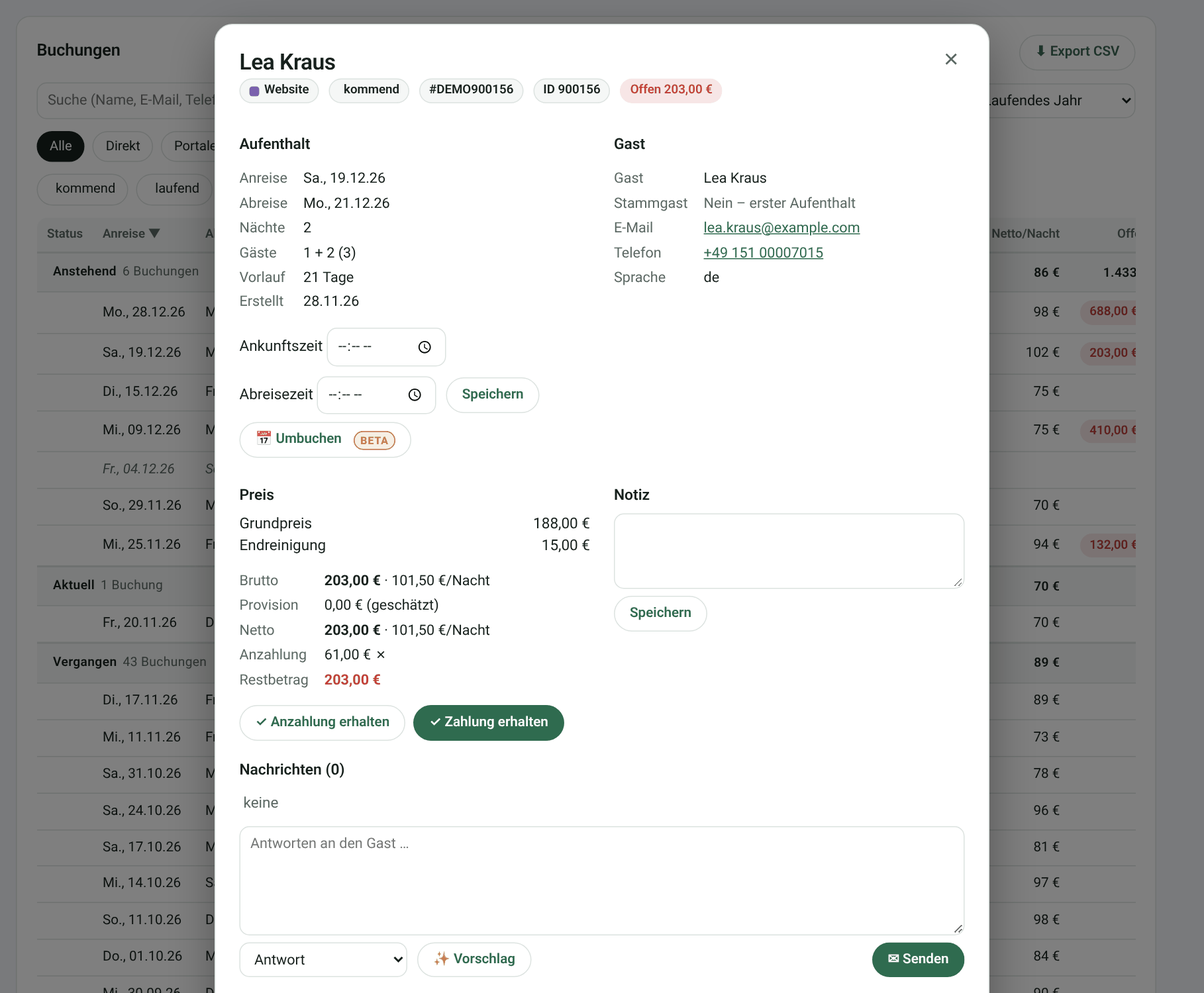
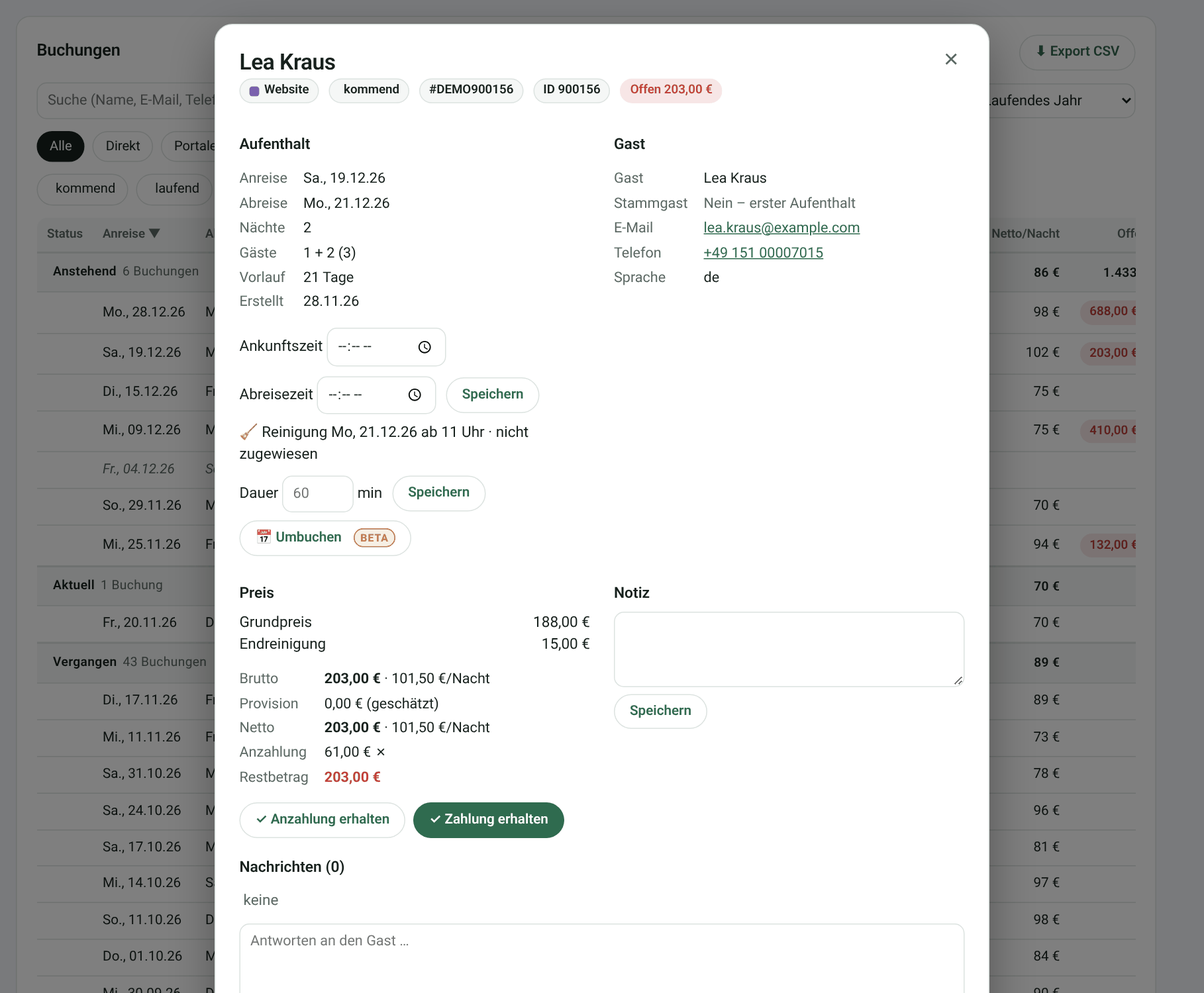
Reinigungszeit je Reinigung buchbar (Standard 60 min)
- Aktion „dauer“ im Reinigungsboard (Minuten, leer = Standard), Feld „Dauer“
  im Board und in den Buchungsdetails
- Reinigungskosten = gebuchte Dauer × Stundenlohn der Person
- Statistik „Reinigung“: Ø Zeit je Person, Zeit je Reinigung, gebuchte Zeiten
- Tests, Changelog, Screenshots

Claude-Session: https://claude.ai/code/session_01FCC4YVqVzBtiPpJSnp39on

diff --git a/custom_components/smoobu/www/smoobu-cards.js b/custom_components/smoobu/www/smoobu-cards.js
@@ -2822,6 +2822,9 @@ class SmoobuBookingDialog extends HTMLElement {
         // Antwortstatus + Assistent sind optional: schlägt einer fehl, bleibt der Dialog ohne diese Teile nutzbar
         this.store.ws("smoobu/message_status", { ...this.target, reservation_ids: [this.rid] }, { cache: false }).catch(() => null),
         this.store.ws("smoobu/assistant/state", this.target, { cache: false }).catch(() => null)]);
+      // v1.19.0: Reinigung dieser Buchung (Dauer buchbar) – nur mit Recht „Reinigung“, sonst einfach ohne
+      this.clean = await this.store.ws("smoobu/cleaning/get", this.target, { cache: false })
+        .then((r) => ({ ...r, item: r.reinigungen.find((x) => x.buchung_id === this.rid) || null })).catch(() => null);
       this.apt = info.wohnungen.find((w) => w.apartment_id === (d.buchung?.wohnung_id ?? this.target.apartment_id)) || info.wohnungen[0];
       this.data = d;
       // Status aus dem frischen Verlauf ableiten (erledigt_id kommt aus message_status)
@@ -2847,6 +2850,17 @@ class SmoobuBookingDialog extends HTMLElement {
       <div class="top"><h2>${d?.buchung ? (d.buchung.blockiert ? `🔒 ${t("Sperrzeit")}` : esc(d.buchung.gast)) + (d.buchung.hund ? " 🐕" : "") + code : t("Details")}</h2>
       <button class="x" data-act="close" aria-label="close">×</button></div>${inner}</div></div>`;
     this.bind();
+  }
+  // v1.19.0: Reinigung nach diesem Aufenthalt – Person, Status und gebuchte Dauer (Standard laut Einstellungen)
+  cleanHtml() {
+    const c = this.clean, x = c?.item;
+    if (!x) return "";
+    const mine = !x.zugewiesen || x.zugewiesen === c.ich;
+    const edit = c.darf_zuweisen || (c.darf_uebernehmen && mine);
+    return `<div class="row" style="margin-top:8px;align-items:center;flex-wrap:wrap">
+      <span>🧹 ${t("Reinigung")} ${fdowLong(x.datum)} ${t("ab")} ${uhr(x.check_out)} · ${x.zugewiesen ? esc(x.zugewiesen_name || "?") : t("nicht zugewiesen")}${x.status === "erledigt" ? ` · ✓ ${t("erledigt")}` : ""}</span>
+      ${edit ? `<label>${t("Dauer")} <input type="number" data-k="cmin" min="1" max="600" step="5" value="${x.minuten ?? ""}" placeholder="${c.standard_minuten || 60}" style="width:72px"> min</label>
+        <button class="btn flat" data-act="cmin">${t("Speichern")}</button>` : `<span class="sub">${num(x.minuten || c.standard_minuten || 60)} min</span>`}</div>`;
   }
   content(d) {
     const b = d.buchung || {};
@@ -2880,7 +2894,7 @@ class SmoobuBookingDialog extends HTMLElement {
         ${!b.blockiert ? `<div class="row" style="margin-top:8px">
           <label>${t("Ankunftszeit")} <input type="time" data-k="ci" value="${esc((b.check_in || "").slice(0, 5))}"></label>
           <label>${t("Abreisezeit")} <input type="time" data-k="co" value="${esc((b.check_out || "").slice(0, 5))}"></label>
-          <button class="btn flat" data-act="times">${t("Speichern")}</button></div>` : ""}${this.moveHtml(b)}</div>
+          <button class="btn flat" data-act="times">${t("Speichern")}</button></div>` : ""}${this.cleanHtml()}${this.moveHtml(b)}</div>
         ${!b.blockiert ? `<div><h3>${t("Gast")}</h3>${kv([
           ["Gast", esc(b.gast)],
           // v1.18.0: frühere Aufenthalte; Klick öffnet die letzte Buchung (ggf. andere Wohnung des Kontos)
@@ -3069,6 +3083,14 @@ class SmoobuBookingDialog extends HTMLElement {
     if (a === "close") return this.remove();
     if (a === "ai") return this.aiSuggest();
     if (["move", "mvcancel", "mvcheck", "mvdo"].includes(a)) return this.moveAct(a); // v1.18.0: Umbuchen
+    if (a === "cmin") { // v1.19.0: Reinigungszeit dieser Buchung (nur in HA, nicht in Smoobu)
+      const x = this.clean?.item, val = this.shadowRoot.querySelector('[data-k="cmin"]')?.value;
+      try {
+        await this.store.ws("smoobu/cleaning/set", { entry_id: x.entry_id, key: x.key, aktion: "dauer", minuten: val === "" ? null : Number(val) }, { cache: false });
+        toast(t("Reinigungszeit gespeichert")); this.load();
+      } catch (e) { toast(`${t("Fehler")}: ${e?.message || e}`); }
+      return;
+    }
     const v = (k) => this.shadowRoot.querySelector(`[data-k="${k}"]`)?.value;
     const id = this.rid;
     // v1.17.0: Zahlungsstatus – markPayment fragt nach, schreibt und meldet selbst
@@ -4357,7 +4379,8 @@ ${t("Netto je € Basispreis")}: ${num(k.netto_je_euro, 2)}`)}">
       const tiles = tilesRow([
         [t("Reinigungen"), num(m.anzahl), m.seit ? `${t("erfasst seit")} ${fdate(m.seit)}` : t("noch keine erfasst"),
           t("Abgehakte Reinigungen im Reinigungsboard mit Abreise im Zeitraum")],
-        [t("Kosten"), money(m.kosten || 0, d.apt.currency), `${num(m.minuten || 60)} min ${t("je Reinigung")}`, t("Reinigungszeit × Stundenlohn der Person (Einstellungen → Kosten & Preise)")],
+        [t("Kosten"), money(m.kosten || 0, d.apt.currency), `${num((m.minuten_summe || 0) / 60, 1)} h · ${num(m.minuten_gebucht || 0)} ${t("Zeiten gebucht, Rest")} ${num(m.minuten || 60)} min`,
+          t("Gebuchte Reinigungszeit (sonst Standard) × Stundenlohn der Person (Einstellungen → Kosten & Preise)")],
         [t("Gästewechsel"), num(m.wechsel), m.anzahl ? pct((m.wechsel / m.anzahl) * 100, 0) : "", t("Abreise und Anreise am selben Tag – enges Zeitfenster")],
         [t("Mit Hund"), num(m.hund), m.anzahl ? pct((m.hund / m.anzahl) * 100, 0) : "", t("Abreisende Gäste mit Hund – meist mehr Aufwand")],
         [t("Nicht abgehakt"), num(m.nicht_abgehakt), m.nicht_abgehakt_ohne_zuweisung ? `${num(m.nicht_abgehakt_ohne_zuweisung)} ${t("ohne Zuweisung")}` : "",
@@ -4366,12 +4389,13 @@ ${t("Netto je € Basispreis")}: ${num(k.netto_je_euro, 2)}`)}">
       if (!m.anzahl) return panel(`🧹 ${t("Reinigung")}`, t("Wer hat wann welche Wohnung gereinigt"),
         `${tiles}<div class="empty">${t("Noch keine abgehakten Reinigungen im Zeitraum – die Auswertung beginnt mit dem Reinigungsboard (Seite Reinigung).")}</div>`);
       const people = m.personen.map((p) => p.person);
-      const per = `<div class="scroll"><table><thead><tr><th>${t("Person")}</th><th class="n">${t("Reinigungen")}</th><th class="n">${t("Anteil")}</th><th class="n">${t("Kosten")}</th>
+      const per = `<div class="scroll"><table><thead><tr><th>${t("Person")}</th><th class="n">${t("Reinigungen")}</th><th class="n">${t("Anteil")}</th><th class="n">${t("Kosten")}</th><th class="n" title="${t("Ø Reinigungszeit")}">${t("Zeit Ø")}</th>
           <th class="n">${t("Gästewechsel")}</th><th class="n">🐕</th><th class="n" title="${t("Personen je Reinigung (abgereiste Gäste)")}">${t("Gäste Ø")}</th>
           <th class="n" title="${t("Summe der Nächte der abgereisten Gäste")}">${t("Nächte")}</th>
           <th class="n" title="${t("Median: Zeit vom Check-out bis zum Abhaken")}">${t("Abgehakt nach")}</th><th>${t("Zuletzt")}</th></tr></thead><tbody>
         ${m.personen.map((p) => `<tr><td><b>${esc(p.person)}</b></td><td class="n">${num(p.anzahl)}</td><td class="n">${pct(p.anteil_prozent, 0)}</td>
           <td class="n" title="${p.stundenlohn ? `${num(p.stundenlohn, 2)} €/h` : ""}">${money(p.kosten || 0, d.apt.currency)}</td>
+          <td class="n">${p.minuten_je_reinigung ? `${num(p.minuten_je_reinigung)} min` : "–"}</td>
           <td class="n">${num(p.wechsel)}</td><td class="n">${num(p.hund)}</td><td class="n">${p.personen_je_reinigung === null ? "–" : num(p.personen_je_reinigung, 1)}</td>
           <td class="n">${num(p.naechte)}</td><td class="n">${dur(p.verzug_median_min)}</td><td>${fdate(p.letzte)}</td></tr>`).join("")}</tbody></table></div>`;
       const cross = (rows, key, label) => `<div class="scroll"><table><thead><tr><th>${t(label)}</th>${people.map((p) => `<th class="n">${esc(p)}</th>`).join("")}<th class="n">Σ</th></tr></thead><tbody>
@@ -4379,11 +4403,13 @@ ${t("Netto je € Basispreis")}: ${num(k.netto_je_euro, 2)}`)}">
           ${people.map((p) => `<td class="n">${r.je_person[p] ? num(r.je_person[p]) : "–"}</td>`).join("")}<td class="n"><b>${num(r.summe)}</b></td></tr>`).join("")}</tbody></table></div>`;
       const shown = card._state.cleanAll ? m.liste : m.liste.slice(0, 15);
       const list = `<div class="scroll"><table><thead><tr><th>${t("Abreise")}</th>${d.info.wohnungen.length > 1 ? `<th>${t("Wohnung")}</th>` : ""}<th>${t("Person")}</th>
-          <th>${t("Abgehakt")}</th><th class="n">${t("Personen")}</th><th class="n">${t("Nächte")}</th><th></th></tr></thead><tbody>
+          <th>${t("Abgehakt")}</th><th class="n">${t("Zeit")}</th><th class="n">${t("Personen")}</th><th class="n">${t("Nächte")}</th><th></th></tr></thead><tbody>
         ${shown.map((x) => `<tr><td>${fdowLong(x.datum)} ${uhr(x.check_out)}</td>${d.info.wohnungen.length > 1 ? `<td>${codeTag(x.kuerzel)}</td>` : ""}
           <td>${esc(x.person)}${x.abgehakt_von && x.abgehakt_von !== x.person ? ` <span class="sub">(${t("abgehakt von")} ${esc(x.abgehakt_von)})</span>` : ""}</td>
-          <td>${x.erledigt_um ? `${fdate(x.erledigt_um)} ${String(x.erledigt_um).slice(11, 16)}` : "–"}</td><td class="n">${x.personen ?? "–"}</td><td class="n">${x.naechte ?? "–"}</td>
+          <td>${x.erledigt_um ? `${fdate(x.erledigt_um)} ${String(x.erledigt_um).slice(11, 16)}` : "–"}</td>
+          <td class="n">${num(x.minuten || 0)} min${x.minuten_gebucht ? "" : " *"}</td><td class="n">${x.personen ?? "–"}</td><td class="n">${x.naechte ?? "–"}</td>
           <td>${x.wechsel ? `<span class="badge warn">🔄 ${t("Wechsel")}</span>` : ""}${x.hund ? " 🐕" : ""}</td></tr>`).join("")}</tbody></table></div>
+        <div class="sub">* ${t("Standardzeit (keine Zeit gebucht)")}</div>
         ${m.liste.length > 15 ? `<button class="lnk" data-k="cleanall">${card._state.cleanAll ? t("Weniger anzeigen") : `${t("Alle")} ${m.liste.length} ${t("anzeigen")}`}</button>` : ""}`;
       return panel(`🧹 ${t("Reinigung")}${neuBadge("neu-reinigung-statistik")}`, t("Wer hat wann welche Wohnung gereinigt"),
         `${tiles}<div class="kl" style="margin-top:12px">${t("Je Person")}</div>${per}
@@ -6619,6 +6645,8 @@ class SmoobuCleaningCard extends SmoobuCard {
     .cl .s { font-size: .86rem; color: var(--sm-muted); margin-top: 2px; }
     .cl .s.wx { color: var(--sm-warn); font-weight: 600; }
     .cl .a { display: flex; gap: 8px; align-items: center; flex-wrap: wrap; justify-content: flex-end; }
+    .cl .dur { display: inline-flex; align-items: center; gap: 4px; } .cl .dur input { width: 68px; font: inherit; font-size: .85rem; padding: 4px 6px;
+      border-radius: 8px; border: 1px solid var(--sm-line); background: var(--sm-surf); color: var(--sm-ink); }
     .cl select { font: inherit; font-size: .85rem; padding: 4px 8px; border-radius: 999px; border: 1px solid var(--sm-line);
       background: var(--sm-surf); color: var(--sm-ink); max-width: 170px; }
     @media (max-width: 620px) { .cl { grid-template-columns: 4px minmax(0, 1fr); } .cl .a { grid-column: 2; justify-content: flex-start; } }
@@ -6666,6 +6694,9 @@ class SmoobuCleaningCard extends SmoobuCard {
       if (!done && r.darf_uebernehmen && !x.zugewiesen) acts.push(`<button class="btn flat" data-cl="uebernehmen" data-key="${esc(x.key)}" data-entry="${esc(x.entry_id)}">${t("Übernehmen")}</button>`);
       if (!done && x.zugewiesen === me) acts.push(`<button class="lnk" data-cl="abgeben" data-key="${esc(x.key)}" data-entry="${esc(x.entry_id)}">${t("Abgeben")}</button>`);
       const mayDone = r.darf_zuweisen || !x.zugewiesen || x.zugewiesen === me;
+      // v1.19.0: tatsächliche Reinigungszeit je Reinigung buchen (leer = Standard)
+      if (mayDone) acts.push(`<label class="dur" title="${t("Reinigungszeit (leer = Standard)")}"><input type="number" data-cmin="${esc(x.key)}" data-entry="${esc(x.entry_id)}"
+        min="1" max="600" step="5" value="${x.minuten ?? ""}" placeholder="${r.standard_minuten || 60}"><span class="unit">min</span></label>`);
       if (mayDone) acts.push(done
         ? `<button class="lnk" data-cl="offen" data-key="${esc(x.key)}" data-entry="${esc(x.entry_id)}">↺ ${t("Wieder offen")}</button>`
         : `<button class="btn" data-cl="erledigt" data-key="${esc(x.key)}" data-entry="${esc(x.entry_id)}">✓ ${t("Erledigt")}</button>`);
@@ -6673,7 +6704,7 @@ class SmoobuCleaningCard extends SmoobuCard {
           <div class="t">${t("ab")} ${uhr(x.check_out)}${x.kuerzel && this.multi ? codeTag(x.kuerzel) : ""}
             <span class="sub">${t("Abreise")}: ${guest(x.vorname, x.personen, x.hund, x.naechte)}</span></div>
           ${next}
-          ${done ? `<div class="s">✓ ${t("erledigt von")} ${esc(x.erledigt_von || "?")}${x.erledigt_um ? `, ${fdate(x.erledigt_um)} ${String(x.erledigt_um).slice(11, 16)}` : ""}</div>` : ""}
+          ${done ? `<div class="s">✓ ${t("erledigt von")} ${esc(x.erledigt_von || "?")}${x.erledigt_um ? `, ${fdate(x.erledigt_um)} ${String(x.erledigt_um).slice(11, 16)}` : ""} · ${num(x.minuten || r.standard_minuten || 60)} min${x.minuten ? "" : ` (${t("Standard")})`}</div>` : ""}
           ${late && !done ? `<div class="s" style="color:var(--sm-bad)">${t("Noch nicht abgehakt")}</div>` : ""}
         </div><div class="a">${acts.join("")}</div></div>`;
     };
@@ -6703,12 +6734,16 @@ class SmoobuCleaningCard extends SmoobuCard {
       el.disabled = true;
       try {
         await this.store.ws("smoobu/cleaning/set", { entry_id: el.dataset.entry, key: el.dataset.key || el.dataset.assign, aktion, ...extra }, { cache: false });
-        toast(aktion === "erledigt" ? `✓ ${t("Erledigt")}` : aktion === "zuweisen" ? t("Zugewiesen") : t("Gespeichert"));
+        toast(aktion === "erledigt" ? `✓ ${t("Erledigt")}` : aktion === "zuweisen" ? t("Zugewiesen") : aktion === "dauer" ? t("Reinigungszeit gespeichert") : t("Gespeichert"));
         this._reload();
       } catch (e) { el.disabled = false; toast(`${t("Fehler")}: ${t(e?.message || String(e))}`); }
     };
     root.querySelectorAll("[data-cl]").forEach((b) => b.addEventListener("click", () => send(b, b.dataset.cl)));
     root.querySelectorAll("[data-assign]").forEach((sel) => sel.addEventListener("change", () => send(sel, "zuweisen", { benutzer_id: sel.value || null })));
+    root.querySelectorAll("[data-cmin]").forEach((inp) => inp.addEventListener("change", () => {
+      inp.dataset.key = inp.dataset.cmin;
+      send(inp, "dauer", { minuten: inp.value === "" ? null : Number(inp.value) });
+    }));
   }
   getCardSize() { return 8; }
 }

diff --git a/custom_components/smoobu/reinigung.py b/custom_components/smoobu/reinigung.py
@@ -14,6 +14,10 @@ Zuweisung (Entscheidungen Betreiber 20.11.2026):
   Standard 18:00). Handy je HA-Benutzer in den Einstellungen (Option `cleaning_phones`).
   Die Pushes halten die Ruhezeit ein (werden gesammelt) – wie die übrigen Smoobu-Pushes.
 
+Dauer (v1.19.0, Wunsch Betreiber 20.11.2026): je Reinigung buchbar (Aktion „dauer“, Minuten), ohne
+Eintrag gilt die Standard-Reinigungszeit (Option `cost_cleaning_minutes`, Standard 60). Kosten der
+Reinigung = Dauer × Stundenlohn der Person (Deckungsbeitrag der Buchung und Statistik).
+
 Schlüssel einer Reinigung: `<buchungs_id>:<abreise>` – verschiebt sich die Abreise, entsteht eine
 neue Reinigung (alte Zuweisung passt dann nicht mehr sicher zum Tag). Gespeichert im Store
 `smoobu_reinigung_<entry_id>`. Offene Einträge fallen nach 60 Tagen weg, erledigte bleiben 3 Jahre
@@ -44,7 +48,8 @@ DAYS_BACK = 7      # erledigte/vergessene der letzten Woche bleiben sichtbar
 DAYS_AHEAD = 60
 KEEP_DAYS = 60          # offene/zugewiesene Einträge
 KEEP_DONE_DAYS = 3 * 366  # erledigte (Statistik)
-ACTIONS = ("uebernehmen", "abgeben", "zuweisen", "erledigt", "offen")
+ACTIONS = ("uebernehmen", "abgeben", "zuweisen", "erledigt", "offen", "dauer")
+MAX_MINUTES = 600
 
 
 class CleaningError(Exception):
@@ -153,6 +158,7 @@ class CleaningBoard:
         for item in build(records, opts, dt_util.now().date()):
             s = state.get(item["key"], {})
             item = {**item, "zugewiesen": s.get("zugewiesen"), "zugewiesen_name": names.get(s.get("zugewiesen")),
+                    "minuten": s.get("minuten"),
                     "status": s.get("status", "offen"), "erledigt_von": s.get("erledigt_von"), "erledigt_um": s.get("erledigt_um")}
             if "belegung_sehen" not in rights:  # Recht „Reinigung“ ohne Belegung: auch keine Vornamen
                 item["vorname"] = None
@@ -187,7 +193,8 @@ class CleaningBoard:
                 if u.is_active and not u.system_generated and rechte.allowed(u, opts, "reinigung")]
 
     # --- Ändern ----------------------------------------------------------
-    async def async_set(self, key: str, action: str, user: Any, target: str | None = None) -> dict[str, Any]:
+    async def async_set(self, key: str, action: str, user: Any, target: str | None = None,
+                        minutes: int | None = None) -> dict[str, Any]:
         """Aktion ausführen (Rechte siehe Modul-Doku). Rückgabe: neuer Zustand der Reinigung."""
         if action not in ACTIONS:
             raise CleaningError("invalid_action")
@@ -221,6 +228,15 @@ class CleaningBoard:
                 if tu is None or not tu.is_active or not rechte.allowed(tu, opts, "reinigung"):
                     raise CleaningError("invalid_user")
             cur["zugewiesen"] = target or None
+        elif action == "dauer":  # tatsächliche Reinigungszeit buchen (leer = Standard)
+            if not can_assign and before not in (None, me):
+                raise CleaningError("not_yours")
+            if minutes is None:
+                cur.pop("minuten", None)
+            elif not 1 <= int(minutes) <= MAX_MINUTES:
+                raise CleaningError("invalid_minutes")
+            else:
+                cur["minuten"] = int(minutes)
         else:  # erledigt / offen
             if not can_assign and before not in (None, me):
                 raise CleaningError("not_yours")
@@ -334,7 +350,8 @@ def stats(state: dict[str, dict[str, Any]], pending: list[dict[str, Any]], start
                      "person": names.get(who) or v.get("gereinigt_name") or v.get("erledigt_von") or "?",
                      "erledigt_um": v.get("erledigt_um"), "abgehakt_von": v.get("erledigt_von"),
                      "verzug_min": _delay_minutes(snap, v.get("erledigt_um")),
-                     "kosten": round((wage(who) if wage else 0.0) * minutes / 60, 2),
+                     "minuten": v.get("minuten") or minutes, "minuten_gebucht": v.get("minuten") is not None,
+                     "kosten": round((wage(who) if wage else 0.0) * (v.get("minuten") or minutes) / 60, 2),
                      "kuerzel": codes.get(snap["wohnung_id"], "")})
     done.sort(key=lambda x: (x["datum"], x["key"]), reverse=True)
     people: dict[str, dict[str, Any]] = {}
@@ -343,8 +360,9 @@ def stats(state: dict[str, dict[str, Any]], pending: list[dict[str, Any]], start
     for x in done:
         p = people.setdefault(x["person"], {"person": x["person"], "anzahl": 0, "wechsel": 0, "hund": 0, "personen": 0,
                                             "naechte": 0, "_delay": [], "letzte": None, "erste": None, "kosten": 0.0,
-                                            "stundenlohn": wage(x["person_id"]) if wage else None})
+                                            "stundenlohn": wage(x["person_id"]) if wage else None, "minuten": 0})
         p["anzahl"] += 1
+        p["minuten"] += x["minuten"]
         p["kosten"] = round(p["kosten"] + x["kosten"], 2)
         p["wechsel"] += int(bool(x["wechsel"]))
         p["hund"] += int(bool(x["hund"]))
@@ -366,6 +384,7 @@ def stats(state: dict[str, dict[str, Any]], pending: list[dict[str, Any]], start
         p["anteil_prozent"] = round(p["anzahl"] / total * 100) if total else 0
         p["verzug_median_min"] = delays[len(delays) // 2] if delays else None
         p["personen_je_reinigung"] = round(p["personen"] / p["anzahl"], 1) if p["anzahl"] else None
+        p["minuten_je_reinigung"] = round(p["minuten"] / p["anzahl"]) if p["anzahl"] else None
         persons.append(p)
     # Vergangene Reinigungen im Zeitraum, die (noch) nicht abgehakt sind – erst ab dem ersten Eintrag im
     # Reinigungsboard (vorher gab es nichts abzuhaken; sonst stünden alle Abreisen vor dem Update hier)
@@ -375,7 +394,9 @@ def stats(state: dict[str, dict[str, Any]], pending: list[dict[str, Any]], start
     return {
         "anzahl": total,
         "kosten": round(sum(x["kosten"] for x in done), 2),
-        "minuten": minutes,
+        "minuten": minutes,  # Standard-Reinigungszeit
+        "minuten_summe": sum(x["minuten"] for x in done),
+        "minuten_gebucht": sum(1 for x in done if x["minuten_gebucht"]),
         "wechsel": sum(1 for x in done if x["wechsel"]),
         "hund": sum(1 for x in done if x["hund"]),
         "nicht_abgehakt": len(missed),
@@ -398,9 +419,11 @@ def merge_stats(parts: list[dict[str, Any]]) -> dict[str, Any]:
         for k in ("anzahl", "wechsel", "hund", "nicht_abgehakt", "nicht_abgehakt_ohne_zuweisung"):
             out[k] += p[k]
         out["kosten"] = round(out["kosten"] + p.get("kosten", 0.0), 2)
+        out["minuten_summe"] = out.get("minuten_summe", 0) + p.get("minuten_summe", 0)
+        out["minuten_gebucht"] = out.get("minuten_gebucht", 0) + p.get("minuten_gebucht", 0)
         for x in p["personen"]:
-            q = people.setdefault(x["person"], {**x, "anzahl": 0, "wechsel": 0, "hund": 0, "personen": 0, "naechte": 0, "kosten": 0.0})
-            for k in ("anzahl", "wechsel", "hund", "personen", "naechte", "kosten"):
+            q = people.setdefault(x["person"], {**x, "anzahl": 0, "wechsel": 0, "hund": 0, "personen": 0, "naechte": 0, "kosten": 0.0, "minuten": 0})
+            for k in ("anzahl", "wechsel", "hund", "personen", "naechte", "kosten", "minuten"):
                 q[k] += x[k]
             q["letzte"] = max(q.get("letzte") or "", x.get("letzte") or "") or None
         for m in p["monate"]:
@@ -415,6 +438,7 @@ def merge_stats(parts: list[dict[str, Any]]) -> dict[str, Any]:
     for q in people.values():
         q["anteil_prozent"] = round(q["anzahl"] / total * 100) if total else 0
         q["personen_je_reinigung"] = round(q["personen"] / q["anzahl"], 1) if q["anzahl"] else None
+        q["minuten_je_reinigung"] = round(q["minuten"] / q["anzahl"]) if q["anzahl"] else None
     out["personen"] = sorted(people.values(), key=lambda q: -q["anzahl"])
     out["monate"] = [{"monat": m, "je_person": v, "summe": sum(v.values())} for m, v in sorted(months.items())]
     out["liste"] = sorted(out["liste"], key=lambda x: (x["datum"], x["key"]), reverse=True)[:100]

diff --git a/custom_components/smoobu/websocket_api.py b/custom_components/smoobu/websocket_api.py
@@ -1131,13 +1131,17 @@ async def ws_cleaning_get(hass: HomeAssistant, connection: websocket_api.ActiveC
     items.sort(key=lambda x: (x["datum"], x["check_out"] or "", x["key"]))
     connection.send_result(msg["id"], {
         "reinigungen": items, "benutzer": list(users.values()), "ich": connection.user.id if connection.user else None,
-        "darf_zuweisen": can_assign, "darf_uebernehmen": can_take, "heute": dt_util.now().date().isoformat()})
+        "darf_zuweisen": can_assign, "darf_uebernehmen": can_take, "heute": dt_util.now().date().isoformat(),
+        # v1.19.0: Standard-Reinigungszeit (Platzhalter für die gebuchte Dauer)
+        "standard_minuten": int(float(next(iter(_apartments_by_coord(pairs))).config_entry.options.get("cost_cleaning_minutes", 60)))})
 
 
 @websocket_api.websocket_command(
     {vol.Required("type"): "smoobu/cleaning/set", vol.Required("entry_id"): str,
      vol.Required("key"): vol.All(str, vol.Length(max=60)), vol.Required("aktion"): vol.In(CLEANING_ACTIONS),
-     vol.Optional("benutzer_id"): vol.Any(None, vol.All(str, vol.Length(max=64)))}
+     vol.Optional("benutzer_id"): vol.Any(None, vol.All(str, vol.Length(max=64))),
+     # v1.19.0: Aktion „dauer“ – gebuchte Reinigungszeit in Minuten (None = Standard)
+     vol.Optional("minuten"): vol.Any(None, vol.All(vol.Coerce(int), vol.Range(min=1, max=600)))}
 )
 @websocket_api.async_response
 async def ws_cleaning_set(hass: HomeAssistant, connection: websocket_api.ActiveConnection, msg: dict[str, Any]) -> None:
@@ -1149,7 +1153,7 @@ async def ws_cleaning_set(hass: HomeAssistant, connection: websocket_api.ActiveC
     if not _cleaning_guard(connection, msg, [c], "reinigung", "reinigung_zuweisen"):
         return
     try:
-        state = await c.cleaning.async_set(msg["key"], msg["aktion"], connection.user, msg.get("benutzer_id"))
+        state = await c.cleaning.async_set(msg["key"], msg["aktion"], connection.user, msg.get("benutzer_id"), msg.get("minuten"))
     except CleaningError as err:
         connection.send_error(msg["id"], "unauthorized" if err.code in ("unauthorized", "not_yours", "already_assigned") else err.code,
                               err.code)

diff --git a/tests/test_reinigung.py b/tests/test_reinigung.py
@@ -159,3 +159,17 @@ async def test_rolle_reinigung_und_board(hass, setup, hass_ws_client, hass_read_
     assert {r["id"]: r for r in c.records_all()}[2]["reinigung_kosten"] == 25.5  # 90 min × 17 €/h (Standard)
     st = (await _call(admin2, 3, type="smoobu/cleaning/stats", start="2026-11-01", end="2026-12-01"))["result"]
     assert st["kosten"] == 30.0 and st["personen"][0]["stundenlohn"] == 20.0
+
+    # v1.19.0: tatsächliche Dauer je Reinigung buchen (statt Standard 90 min) → 75 min × 20 €/h = 25 €
+    cleaner2 = await hass_ws_client(hass, hass_read_only_access_token)
+    res = await _call(cleaner2, 1, type="smoobu/cleaning/set", entry_id=eid, key=keys[0], aktion="dauer", minuten=75)
+    assert res["success"] and res["result"]["zustand"]["minuten"] == 75
+    assert (await _call(cleaner2, 2, type="smoobu/cleaning/get"))["result"]["standard_minuten"] == 90
+    await c.async_refresh()
+    assert {r["id"]: r for r in c.records_all()}[1]["reinigung_kosten"] == 25.0
+    st = (await _call(admin2, 4, type="smoobu/cleaning/stats", start="2026-11-01", end="2026-12-01"))["result"]
+    assert st["kosten"] == 25.0 and st["minuten_gebucht"] == 1 and st["personen"][0]["minuten"] == 75
+    # ungültig und Zurücksetzen auf Standard
+    assert (await _call(cleaner2, 3, type="smoobu/cleaning/set", entry_id=eid, key=keys[0], aktion="dauer", minuten=0))["success"] is False
+    res = await _call(cleaner2, 4, type="smoobu/cleaning/set", entry_id=eid, key=keys[0], aktion="dauer", minuten=None)
+    assert "minuten" not in res["result"]["zustand"]

diff --git a/custom_components/smoobu/coordinator.py b/custom_components/smoobu/coordinator.py
@@ -272,7 +272,7 @@ class SmoobuCoordinator(DataUpdateCoordinator[SmoobuData]):
         zugewiesen ist. Ohne Board-Eintrag oder ohne eigenen Lohn: Standard-Stundenlohn (kein Eintrag nötig)."""
         board = getattr(self, "cleaning", None)
         wages = {str(k): float(v) for k, v in (self.config_entry.options.get(CONF_CLEANING_WAGES) or {}).items() if v}
-        if board is None or not wages:
+        if board is None:
             return {}
         state = await board._load()  # noqa: SLF001
         out: dict[Any, float] = {}
@@ -280,8 +280,9 @@ class SmoobuCoordinator(DataUpdateCoordinator[SmoobuData]):
             for r in items:
                 s = state.get(f"{r['id']}:{r['abreise']}") or {}
                 who = s.get("gereinigt_von") or s.get("zugewiesen")
-                if who in wages:
-                    out[r["id"]] = wages[who] * cfg.cleaning_minutes / 60
+                # v1.19.0: gebuchte Dauer je Reinigung (sonst Standardzeit) × Lohn der Person (sonst Standardlohn)
+                if who in wages or s.get("minuten"):
+                    out[r["id"]] = wages.get(who, cfg.cleaning_wage) * float(s.get("minuten") or cfg.cleaning_minutes) / 60
         return out
 
     async def _async_update_data(self) -> SmoobuData:

diff --git a/tools/screenshots/render_screenshots.py b/tools/screenshots/render_screenshots.py
@@ -317,6 +317,7 @@ async def _demo_cleaning(hass: HomeAssistant, board, today: date, people: list) 
         who = people[0] if i % 3 else people[1]
         state[f"9{i:03d}:{day.isoformat()}"] = {
             "status": "erledigt", "zugewiesen": who.id, "gereinigt_von": who.id, "gereinigt_name": who.name,
+            **({"minuten": 45 + (i * 13) % 50} if i % 2 else {}),
             "erledigt_von": who.name, "erledigt_um": f"{day.isoformat()}T{12 + i % 3}:{(i * 7) % 60:02d}",
             "snapshot": {"datum": day.isoformat(), "wohnung_id": next(iter(board.c.data.apartments)), "check_out": "11:00",
                          "wechsel": i % 4 == 0, "hund": i % 5 == 0, "personen": 2 + i % 3, "naechte": 2 + i % 6}}

diff --git a/CHANGELOG.md b/CHANGELOG.md
@@ -20,6 +20,7 @@ Changes are collected on the `develop` branch under "Unreleased". A release is c
 - **Nebenkostenabrechnung von der KI auswerten** (Kosten & Preise): PDF/JPG/PNG hochladen (max. 15 MB, nur lokal gespeichert in `smoobu_belege/`, eigene nicht durchsuchbare Medienquelle `smoobu` für den KI-Anhang). Die KI des Assistenten liest Heizung, Warmwasser, Wasser, Strom und Preis; Vorschlag je Wert mit alt/neu, Herleitung (z. B. ÷ Gästenächte aus Smoobu), Fundstelle und Prüfung (Plausibilität, Abgleich Gästenächte und gemessener Zähler). Übernommen wird nur nach Auswahl und „Speichern“. Die KI-Sperre gilt auch hier; die Datei geht vollständig an die gewählte KI (Hinweis in der Karte)
 - **Wasser und Heizung ebenfalls konstant oder aus Zähler** (Kosten & Preise → Wasserkosten / Heizkosten): Wasserzähler (m³ oder L) × Preis je m³ Frisch- + Abwasser, Heizungszähler (Wärme kWh, Gas m³, Öl L) × Preis je Einheit, jeweils fest oder aus einer Entität; Option „Zähler misst auch Warmwasser“. Standard bleibt „Konstant“. Vorheizen und Leerstand gelten gemeinsam für alle Zähler (Block „Messung“); `wasser_quelle`/`heizung_quelle` je Buchung
 - **Reinigung = Zeit × Stundenlohn**: Standard-Reinigungszeit (60 min) und Standard-Stundenlohn; je Reinigungskraft ein eigener Lohn (gilt für Reinigungen, die die Person laut Reinigungsboard erledigt hat oder die ihr zugewiesen sind). Die bisherige Option „Reinigung je Aufenthalt“ ist jetzt der Standard-Stundenlohn – bei 60 min bleibt der Betrag gleich. Statistik „Reinigung“ zeigt Kosten gesamt und je Person; Feld `reinigung_kosten` je Buchung
+- **Reinigungszeit je Reinigung buchbar** (Reinigungsboard und Buchungsdetails, Feld „Dauer“ in Minuten; leer = Standardzeit, Standard 60 min). Kosten = gebuchte Dauer × Stundenlohn der Person; Statistik „Reinigung“ mit Ø Zeit je Person, Zeit je Reinigung (* = Standard) und Anzahl gebuchter Zeiten
 - Neue WebSocket-Befehle `smoobu/energie/leerstand`, `smoobu/nebenkosten/list|analyse|delete`, HTTP `POST /api/smoobu/nebenkosten/<entry_id>`
 - Karte `custom:smoobu-timeline-card`: Standardtitel jetzt „Kalender & Preise“ (vorher „Belegungsplan“), passend zur Seite **Kalender**
 - README und Screenshots auf den Stand von 1.18.0 gebracht (Funktionsliste, neue Bilder zu Was ist neu, Einrichtung, Deckungsbeitrag, Saison-Matrix, Saisons, Kalender-Auswahl, Buchungen, Umbuchen; Optionen Saisons und Push „Umbuchung“)
@@ -37,6 +38,7 @@ Changes are collected on the `develop` branch under "Unreleased". A release is c
 - **Let the AI read your utility bill** (Costs & prices): upload PDF/JPG/PNG (max. 15 MB, stored locally only in `smoobu_belege/`, own non-browsable media source `smoobu` for the AI attachment). The assistant's AI reads heating, hot water, water, electricity and price; suggestion per value with old/new, derivation (e.g. ÷ guest nights from Smoobu), source location and checks (plausibility, guest nights and measured meter). Applied only after selection and "Save". The AI lock applies; the file is sent completely to the chosen AI (note in the card)
 - **Water and heating also constant or from a meter** (Costs & prices → Water costs / Heating costs): water meter (m³ or L) × price per m³ fresh + waste water, heating meter (heat kWh, gas m³, oil L) × price per unit, each fixed or from an entity; option "meter also measures hot water". Default stays "Constant". Pre-heating and vacancy apply to all meters (block "Measurement"); `wasser_quelle`/`heizung_quelle` per booking
 - **Cleaning = time × hourly wage**: standard cleaning time (60 min) and standard hourly wage; an own wage per cleaner (applies to cleanings the person did according to the cleaning board or that are assigned to them). The previous option "cleaning per stay" is now the standard hourly wage – at 60 min the amount stays the same. Statistics "Cleaning" shows costs in total and per person; field `reinigung_kosten` per booking
+- **Cleaning time bookable per cleaning** (cleaning board and booking details, field "Duration" in minutes; empty = standard time, default 60 min). Costs = booked duration × the person's hourly wage; statistics "Cleaning" with average time per person, time per cleaning (* = standard) and number of booked times
 - New WebSocket commands `smoobu/energie/leerstand`, `smoobu/nebenkosten/list|analyse|delete`, HTTP `POST /api/smoobu/nebenkosten/<entry_id>`
 - Card `custom:smoobu-timeline-card`: default title is now "Calendar & prices" (previously "Occupancy plan"), matching the **Calendar** page
 - README and screenshots updated to 1.18.0 (feature list, new images for what's new, setup, contribution margin, season matrix, seasons, calendar selection, bookings, rebooking; options seasons and push "Rebooking")
